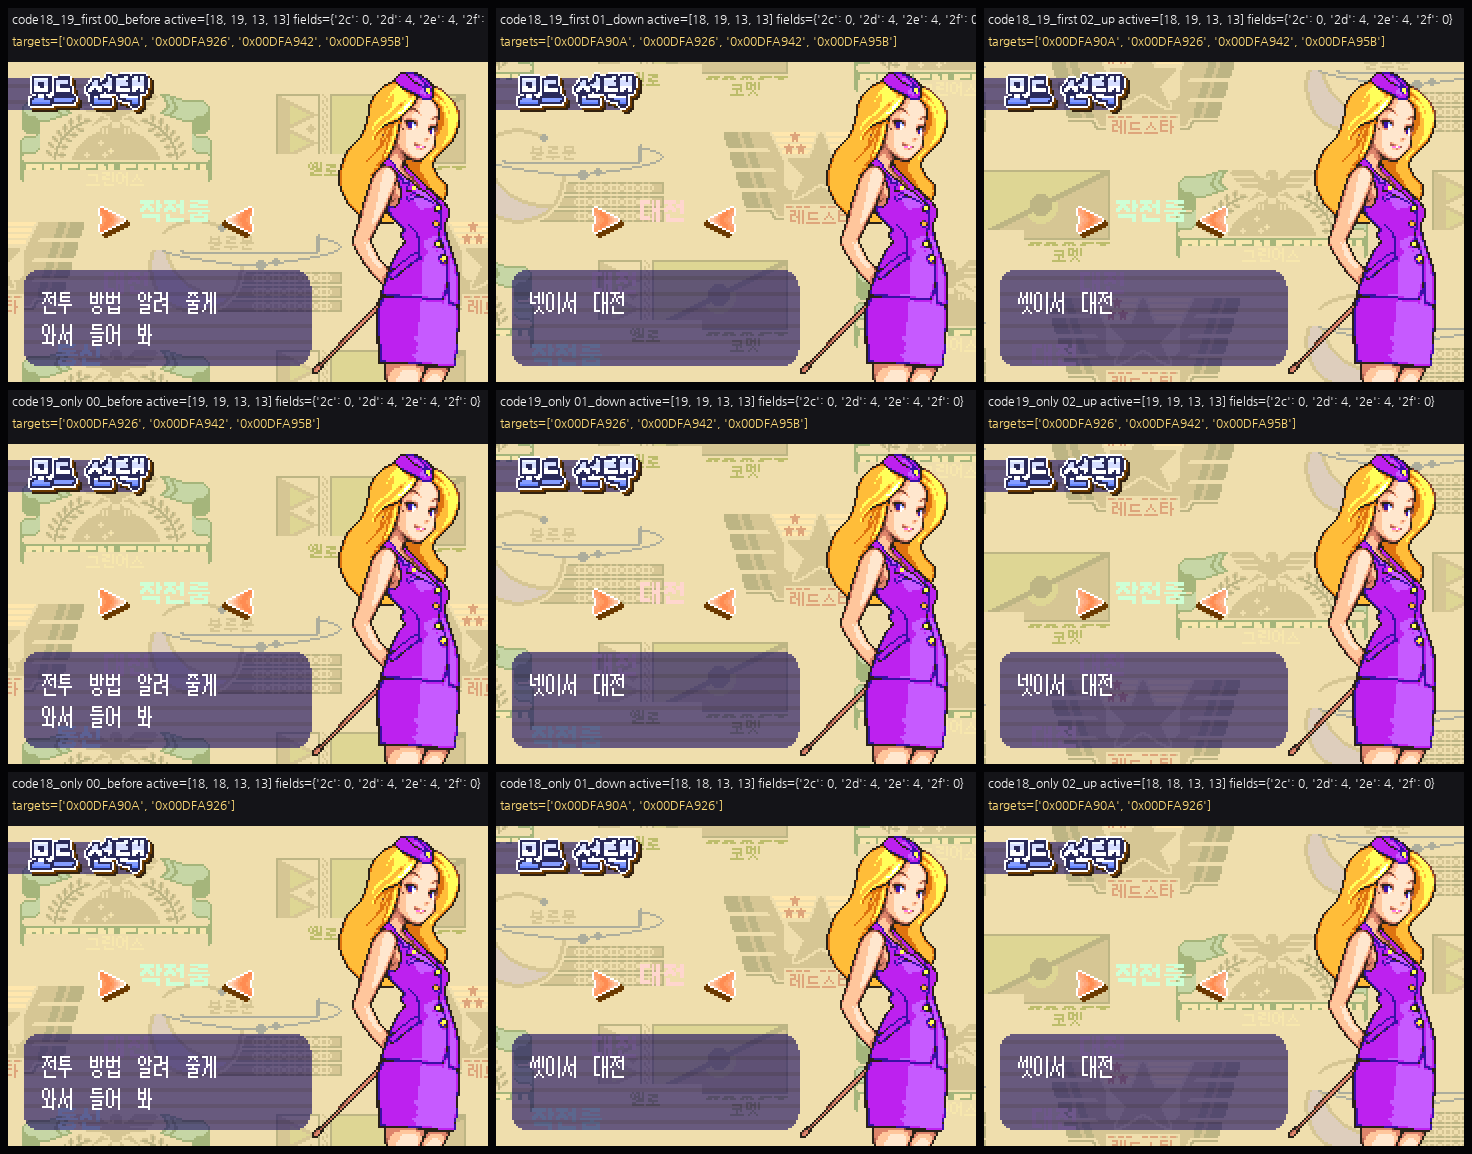
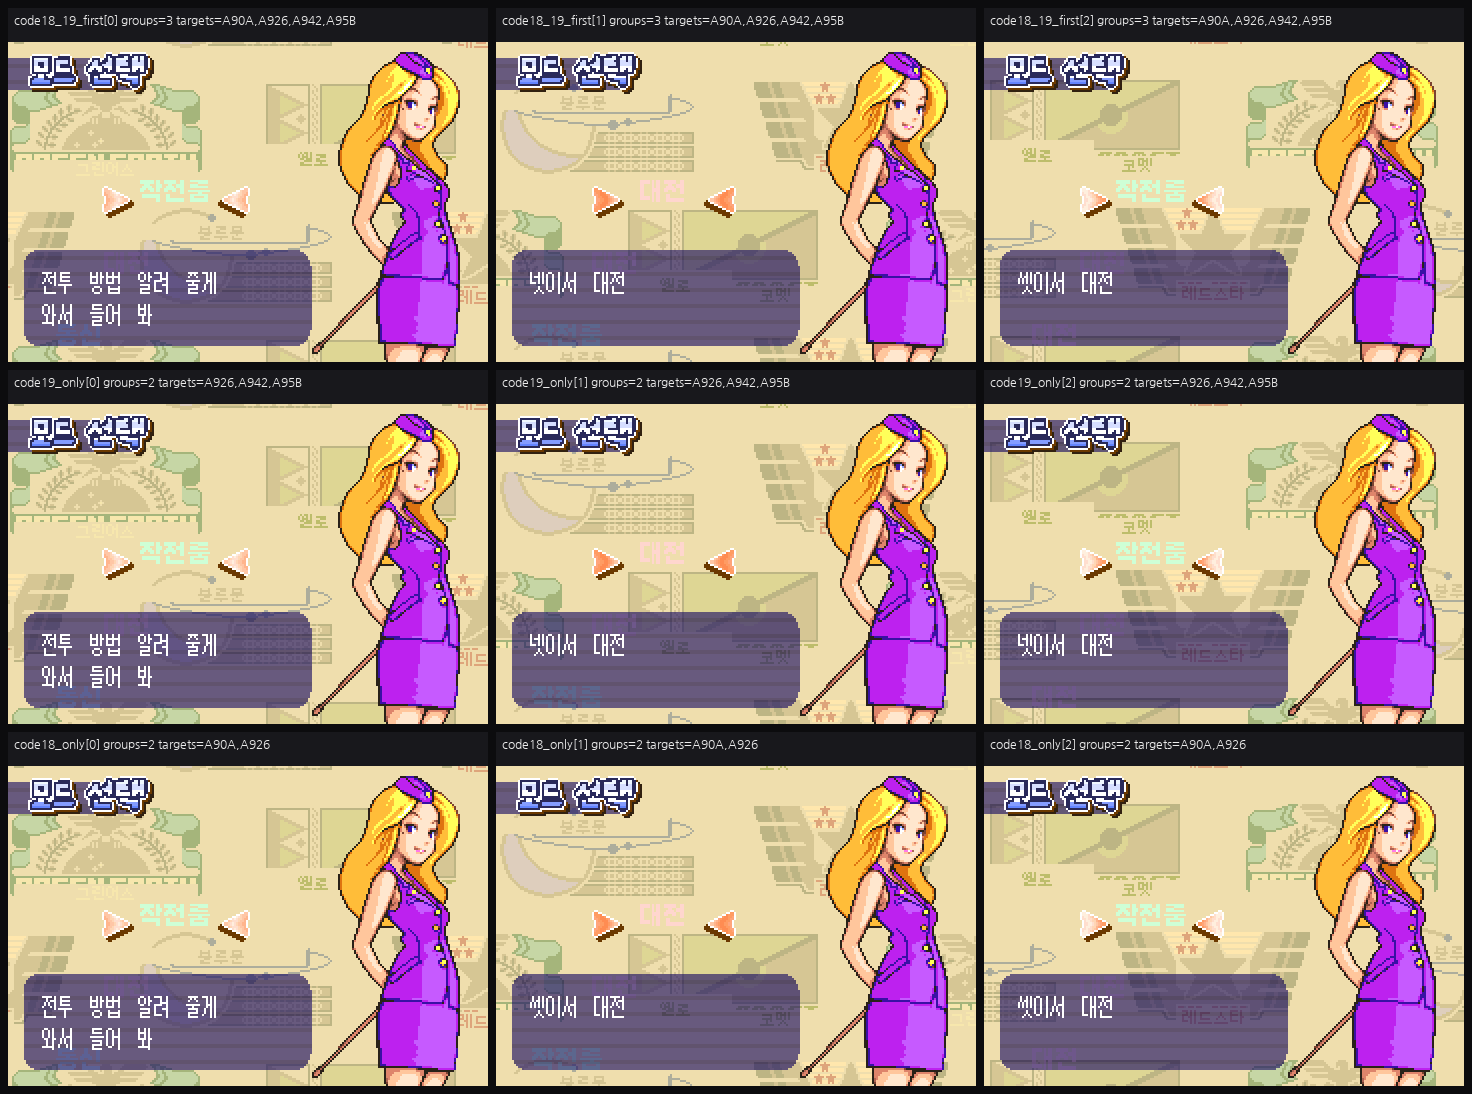
docs: E16 live-code evidence current SHA 동기화
Part1 compact 도움말 live-code injection 증거를 f95a8573 current ROM으로 재생성했다.

qa_part1_compact_help.py는 carry-forward 0, issue_count 0이며 verify_dist_integrity.py도 PASS.

E16 real gameplay direct visual route 11개 부채는 todo.md에 계속 유지한다.

diff --git a/docs/success.md b/docs/success.md
@@ -2923,7 +2923,7 @@ C6/E8의 미완 증거를 닫았다. 단, 이 증거는 "에디터 저장 게이
 - **목적**: real gameplay route가 아직 없는 11개 도움말
   (`0xDFA64A/66B/83A/84D/872/885/8AA/8CB/8EA/90A/926`)에 대해, pointer-table을 바꾸지 않고
   실제 `item code -> 0x08DFAAB8 pointer lookup -> help renderer` 경로가 깨짐 없이 동작하는지 확인했다.
[2 lines of base64/hex data omitted]
   fresh Part1 mode menu를 열고, live menu object의 `0x0200002D/2E/2F`와 `0x02000030...` item code만
   `0`, `5/6`, `16..19` 후보로 주입했다. 이후 실제 `DOWN/UP` cursor 이동으로 help redraw를 유도했다.
 - **결과**: code0은 `둘부터 넷까지 / 대전 가능`, code5/6은 `특별한 처음부터 / 숨겨진 모드`와
@@ -2932,7 +2932,8 @@ C6/E8의 미완 증거를 닫았다. 단, 이 증거는 "에디터 저장 게이
 - **증거/게이트**:
   `docs/screenshots/part1_compact_help_live_code_injection_2026-06-28/contact_primary.png`,
   `docs/screenshots/part1_compact_help_live_code_injection_2026-06-28/contact_player19.png`,
-  reports 2종. `tools/qa_part1_compact_help.py`는 live-code injection evidence 11개를 별도 hard gate로 검사한다.
+  reports 2종. reports는 current SHA 직접 캡처라 `tools/qa_part1_compact_help.py`의
+  `carry_forwarded_live_code_report_count=0`이다. 이 QA는 live-code injection evidence 11개를 별도 hard gate로 검사한다.
 - **경계**: 이는 pointer-table forced-render보다 강한 renderer/code-lookup smoke지만, real gameplay unlock/player-count
   route direct visual evidence는 아니다. E16 route debt 11개는 `todo.md`에 계속 남긴다.
 

diff --git a/docs/research.md b/docs/research.md
@@ -2733,6 +2733,8 @@ byte ptr만 +1=잼). content char(>0x77)는 0x8b12634에서 return 1.
   `0x08B4AF08`의 실제 `code & 0x7F -> 0x08DFAAB8` lookup과 help renderer를 그대로 사용한다.
   결과 code0, code5/6, code16..19의 남은 11개 문구가 모두 read-watch와 최종 화면에서 정상 표시됐다.
   증거는 `docs/screenshots/part1_compact_help_live_code_injection_2026-06-28/`.
+  2026-06-28 후속 재실행으로 report 2종은 current SHA `f95a8573...` 직접 캡처가 됐고,
+  `qa_part1_compact_help.py`의 carry-forward 인정은 더 이상 필요하지 않다.
 - **경계**: live-code injection은 pointer-table forced-render보다 강한 smoke지만, 실제 게임 진행/해금 조건으로
   해당 item code가 active menu에 올라오는 route proof는 아니다. E16 direct debt는 code0 VS 헤더, code5/6 hidden
   campaign, code16..19 player-count 화면의 real route 확보까지 유지한다.

diff --git a/todo.md b/todo.md
@@ -842,6 +842,8 @@ RE 사실=`docs/research.md`. 막힘/완료 시 codex+agy 엄격 리뷰(`temp/re
     화면에서 깨짐/클리핑 없이 표시됐다. 증거:
     `docs/screenshots/part1_compact_help_live_code_injection_2026-06-28/contact_primary.png`,
     `contact_player19.png`, reports 2종.
+    후속 재실행으로 reports 2종을 current SHA `f95a8573...` 직접 캡처로 갱신했고,
+    `qa_part1_compact_help.py`의 `carry_forwarded_live_code_report_count`는 2->0이 됐다.
     `tools/qa_part1_compact_help.py`는 direct visual 23/missing direct 11,
     synthetic render 11, **live-code injection 11**, render-missing 0을 hard gate로 검사한다.
   - [ ] 남은 direct visual route 확보:
